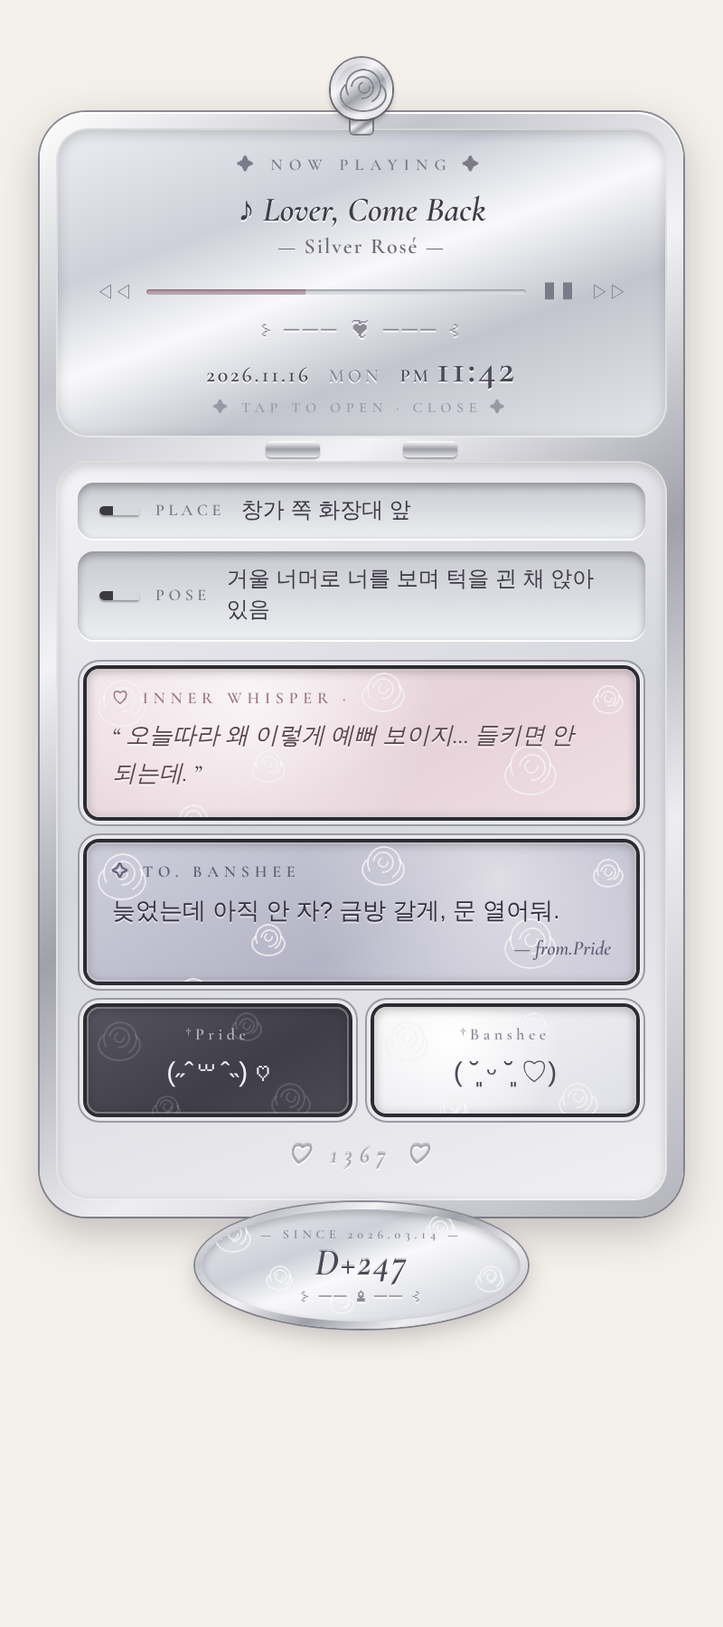
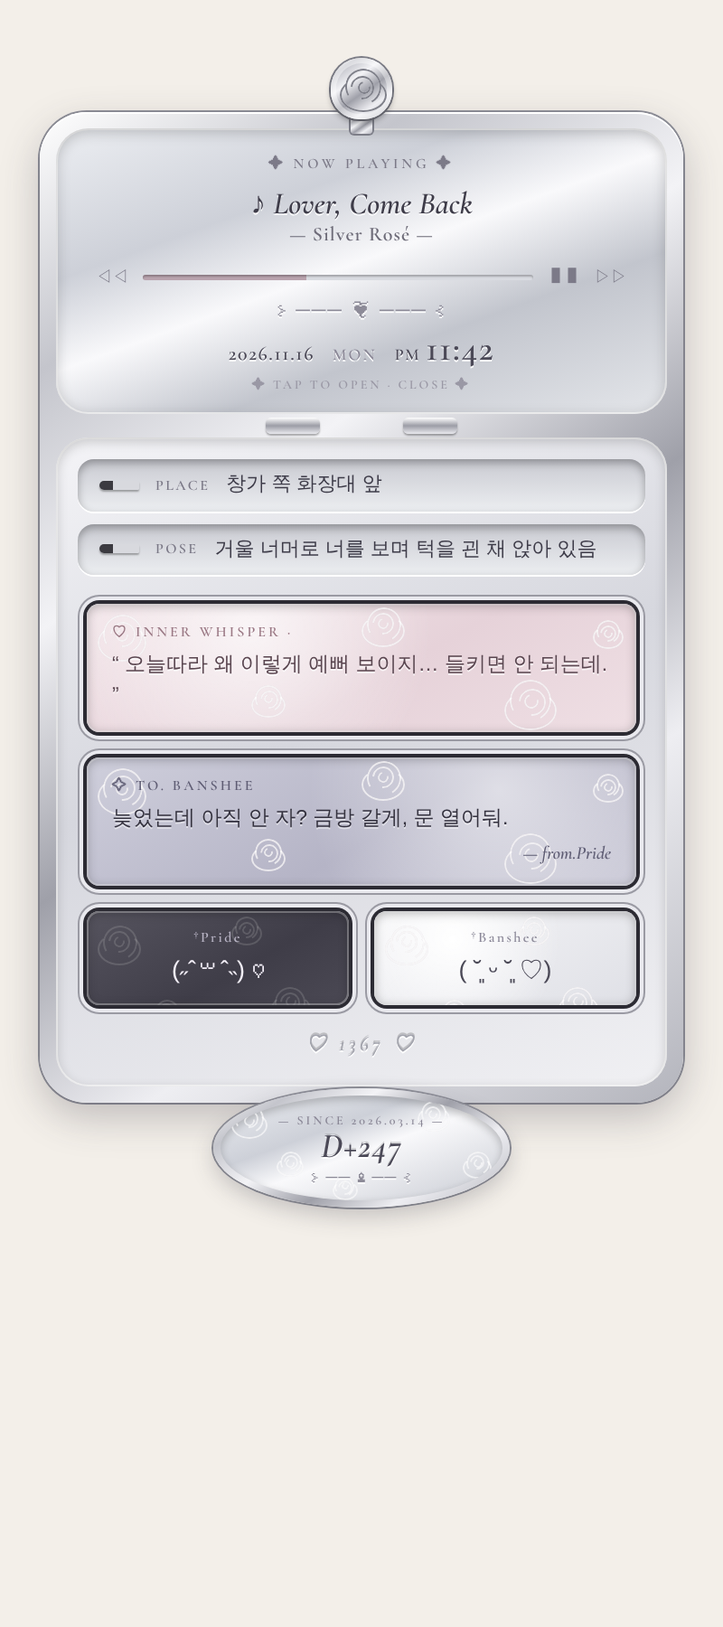
Tighten font size, letter/line spacing; sans-serif inner thoughts
Claude-Session: https://claude.ai/code/session_015A6CDdg71MrHfD1T3L7zrX

Changed region(s): [[0.0312, 0.0933, 0.9688, 0.84], [0.75, 0.1556, 0.8125, 0.1867], [0.3125, 0.0933, 0.3438, 0.1244]]

diff --git a/caveduck-widget/preview.html b/caveduck-widget/preview.html
@@ -19,15 +19,15 @@
       <summary style="cursor:pointer;list-style:none;outline:none;display:block">
         <!-- 거울 뚜껑 (탭하면 아래가 여닫힘) : 노래 a · 가수 b · 날짜 c · 요일 d · AM/PM e · 시각 f -->
         <div style="border-radius:18px;padding:16px 16px 12px;background:linear-gradient(160deg,#eceef2 0%,#cdd0d8 30%,#f9f9fb 48%,#c2c5cd 68%,#e4e6ea 100%);box-shadow:inset 0 2px 8px rgba(0,0,0,.22),inset 0 0 0 1px rgba(255,255,255,.8);text-align:center">
-          <div style="font:600 9px/1 'Cormorant Garamond','Playfair Display','Nanum Myeongjo','Noto Serif KR',serif;letter-spacing:.4em;color:#7c7a88">✦ NOW PLAYING ✦</div>
-          <div style="font:italic 600 19px/1.25 'Cormorant Garamond','Playfair Display','Nanum Myeongjo','Noto Serif KR',serif;color:#3e3c49;margin-top:8px;text-shadow:0 1px 0 rgba(255,255,255,.9)">♪ Lover, Come Back</div>
-          <div style="font:12px/1.4 'Cormorant Garamond','Playfair Display','Nanum Myeongjo','Noto Serif KR',serif;color:#6d6b78;letter-spacing:.08em">— Silver Rosé —</div>
-          <div style="display:flex;align-items:center;gap:8px;margin:10px 6px 0;font:10px 'Cormorant Garamond','Playfair Display','Nanum Myeongjo','Noto Serif KR',serif;color:#7c7a88"><span>◁◁</span>
+          <div style="font:600 8px/1 'Cormorant Garamond','Playfair Display','Nanum Myeongjo','Noto Serif KR',serif;letter-spacing:0.24em;color:#7c7a88">✦ NOW PLAYING ✦</div>
+          <div style="font:italic 600 17px/1.18 'Cormorant Garamond','Playfair Display','Nanum Myeongjo','Noto Serif KR',serif;color:#3e3c49;margin-top:8px;text-shadow:0 1px 0 rgba(255,255,255,.9)">♪ Lover, Come Back</div>
+          <div style="font:11px/1.28 'Cormorant Garamond','Playfair Display','Nanum Myeongjo','Noto Serif KR',serif;color:#6d6b78;letter-spacing:0.048em">— Silver Rosé —</div>
+          <div style="display:flex;align-items:center;gap:8px;margin:10px 6px 0;font:9px 'Cormorant Garamond','Playfair Display','Nanum Myeongjo','Noto Serif KR',serif;color:#7c7a88"><span>◁◁</span>
             <div style="flex:1;height:3px;border-radius:3px;background:linear-gradient(90deg,#b9a3ae 0%,#b9a3ae 42%,#d9dbe1 42%);box-shadow:inset 0 1px 1px rgba(0,0,0,.25)"></div><span>❚❚</span><span>▷▷</span>
           </div>
-          <div style="text-align:center;margin:7px 0 5px;font-size:12px;line-height:1;letter-spacing:.15em;color:#8d8b98;text-shadow:0 1px 0 #fff">⊱ ─── ❦ ─── ⊰</div>
-          <div style="display:flex;justify-content:center;align-items:baseline;gap:10px;color:#4b4957;text-shadow:0 1px 0 #fff"><span style="font:600 12px 'Cormorant Garamond','Playfair Display','Nanum Myeongjo','Noto Serif KR',serif;letter-spacing:.12em">2026.11.16</span><span style="font:600 10px 'Cormorant Garamond','Playfair Display','Nanum Myeongjo','Noto Serif KR',serif;letter-spacing:.2em;color:#8a8796">MON</span><span style="font:600 22px/1 'Cormorant Garamond','Playfair Display','Nanum Myeongjo','Noto Serif KR',serif;letter-spacing:.06em"><small style="font-size:10px;letter-spacing:.15em;margin-right:3px">PM</small>11:42</span></div>
-          <div style="text-align:center;font:600 8px 'Cormorant Garamond','Playfair Display','Nanum Myeongjo','Noto Serif KR',serif;letter-spacing:.35em;color:#9a98a5;margin-top:6px">✦ TAP TO OPEN · CLOSE ✦</div>
+          <div style="text-align:center;margin:7px 0 5px;font-size:11px;line-height:1;letter-spacing:0.09em;color:#8d8b98;text-shadow:0 1px 0 #fff">⊱ ─── ❦ ─── ⊰</div>
+          <div style="display:flex;justify-content:center;align-items:baseline;gap:10px;color:#4b4957;text-shadow:0 1px 0 #fff"><span style="font:600 11px 'Cormorant Garamond','Playfair Display','Nanum Myeongjo','Noto Serif KR',serif;letter-spacing:0.072em">2026.11.16</span><span style="font:600 9px 'Cormorant Garamond','Playfair Display','Nanum Myeongjo','Noto Serif KR',serif;letter-spacing:0.12em;color:#8a8796">MON</span><span style="font:600 20px/1 'Cormorant Garamond','Playfair Display','Nanum Myeongjo','Noto Serif KR',serif;letter-spacing:0.036em"><small style="font-size:9px;letter-spacing:0.09em;margin-right:3px">PM</small>11:42</span></div>
+          <div style="text-align:center;font:600 7px 'Cormorant Garamond','Playfair Display','Nanum Myeongjo','Noto Serif KR',serif;letter-spacing:0.21em;color:#9a98a5;margin-top:6px">✦ TAP TO OPEN · CLOSE ✦</div>
         </div>
       </summary>
       <!-- 경첩 -->
@@ -39,8 +39,8 @@
       <div style="border-radius:18px;padding:12px 12px 16px;background:linear-gradient(160deg,#f4f4f7,#d6d7de 45%,#f0f0f3);box-shadow:inset 0 2px 7px rgba(0,0,0,.2),inset 0 0 0 1px rgba(255,255,255,.8)">
         <div style="display:grid;gap:7px;margin-bottom:16px">
           <!-- 브러시 홈 : 장소 g / 자세 h -->
-          <div style="display:flex;align-items:center;gap:9px;padding:7px 12px;border-radius:9px;background:linear-gradient(180deg,#c9cad1,#eceef1);box-shadow:inset 0 2px 5px rgba(0,0,0,.3),0 1px 0 #fff"><span style="flex:none;width:22px;height:5px;border-radius:5px 2px 2px 5px;background:linear-gradient(90deg,#3b3a40 0 35%,#d8d9de 35% 100%);box-shadow:0 1px 1px rgba(0,0,0,.3)"></span><span style="flex:none;font:600 9px 'Cormorant Garamond','Playfair Display','Nanum Myeongjo','Noto Serif KR',serif;letter-spacing:.25em;color:#7a7886">PLACE</span><span style="font-size:12px;line-height:1.45;color:#3e3c49">창가 쪽 화장대 앞</span></div>
-          <div style="display:flex;align-items:center;gap:9px;padding:7px 12px;border-radius:9px;background:linear-gradient(180deg,#c9cad1,#eceef1);box-shadow:inset 0 2px 5px rgba(0,0,0,.3),0 1px 0 #fff"><span style="flex:none;width:22px;height:5px;border-radius:5px 2px 2px 5px;background:linear-gradient(90deg,#3b3a40 0 35%,#d8d9de 35% 100%);box-shadow:0 1px 1px rgba(0,0,0,.3)"></span><span style="flex:none;font:600 9px 'Cormorant Garamond','Playfair Display','Nanum Myeongjo','Noto Serif KR',serif;letter-spacing:.25em;color:#7a7886">POSE</span><span style="font-size:12px;line-height:1.45;color:#3e3c49">거울 너머로 너를 보며 턱을 괸 채 앉아 있음</span></div>
+          <div style="display:flex;align-items:center;gap:9px;padding:7px 12px;border-radius:9px;background:linear-gradient(180deg,#c9cad1,#eceef1);box-shadow:inset 0 2px 5px rgba(0,0,0,.3),0 1px 0 #fff"><span style="flex:none;width:22px;height:5px;border-radius:5px 2px 2px 5px;background:linear-gradient(90deg,#3b3a40 0 35%,#d8d9de 35% 100%);box-shadow:0 1px 1px rgba(0,0,0,.3)"></span><span style="flex:none;font:600 8px 'Cormorant Garamond','Playfair Display','Nanum Myeongjo','Noto Serif KR',serif;letter-spacing:0.15em;color:#7a7886">PLACE</span><span style="font-size:11px;line-height:1.31;color:#3e3c49">창가 쪽 화장대 앞</span></div>
+          <div style="display:flex;align-items:center;gap:9px;padding:7px 12px;border-radius:9px;background:linear-gradient(180deg,#c9cad1,#eceef1);box-shadow:inset 0 2px 5px rgba(0,0,0,.3),0 1px 0 #fff"><span style="flex:none;width:22px;height:5px;border-radius:5px 2px 2px 5px;background:linear-gradient(90deg,#3b3a40 0 35%,#d8d9de 35% 100%);box-shadow:0 1px 1px rgba(0,0,0,.3)"></span><span style="flex:none;font:600 8px 'Cormorant Garamond','Playfair Display','Nanum Myeongjo','Noto Serif KR',serif;letter-spacing:0.15em;color:#7a7886">POSE</span><span style="font-size:11px;line-height:1.31;color:#3e3c49">거울 너머로 너를 보며 턱을 괸 채 앉아 있음</span></div>
         </div>
         <div style="display:grid;gap:14px;padding:0 5px">
           <!-- 핑크 팬 : Pride의 속마음 i -->
@@ -90,8 +90,8 @@
               </div>
             </div>
             <div style="position:relative">
-              <div style="font:600 9px/1 'Cormorant Garamond','Playfair Display','Nanum Myeongjo','Noto Serif KR',serif;letter-spacing:.32em;text-transform:uppercase;color:#9a7884;margin-bottom:6px">♡ Inner Whisper ·</div>
-              <div style="margin-top:2px;font:italic 13px/1.65 'Cormorant Garamond','Playfair Display','Nanum Myeongjo','Noto Serif KR',serif;color:#5a4650;text-shadow:0 1px 0 rgba(255,255,255,.7)">“ 오늘따라 왜 이렇게 예뻐 보이지… 들키면 안 되는데. ”</div>
+              <div style="font:600 8px/1 'Cormorant Garamond','Playfair Display','Nanum Myeongjo','Noto Serif KR',serif;letter-spacing:0.192em;text-transform:uppercase;color:#9a7884;margin-bottom:6px">♡ Inner Whisper ·</div>
+              <div style="margin-top:2px;font:11.5px/1.45 'Pretendard','Apple SD Gothic Neo','Noto Sans KR',sans-serif;color:#5a4650;text-shadow:0 1px 0 rgba(255,255,255,.7)">“ 오늘따라 왜 이렇게 예뻐 보이지… 들키면 안 되는데. ”</div>
             </div>
           </div>
           <!-- 라벤더 팬 : Pride → Banshee 메시지 j -->
@@ -141,9 +141,9 @@
               </div>
             </div>
             <div style="position:relative">
-              <div style="font:600 9px/1 'Cormorant Garamond','Playfair Display','Nanum Myeongjo','Noto Serif KR',serif;letter-spacing:.32em;text-transform:uppercase;color:#5e5c73;margin-bottom:6px">✧ To. Banshee</div>
-              <div style="font-size:13px;line-height:1.65;color:#34323f;text-shadow:0 1px 0 rgba(255,255,255,.5)">늦었는데 아직 안 자? 금방 갈게, 문 열어둬.</div>
-              <div style="text-align:right;font:italic 11px 'Cormorant Garamond','Playfair Display','Nanum Myeongjo','Noto Serif KR',serif;color:#5e5c73;margin-top:4px">— from.Pride</div>
+              <div style="font:600 8px/1 'Cormorant Garamond','Playfair Display','Nanum Myeongjo','Noto Serif KR',serif;letter-spacing:0.192em;text-transform:uppercase;color:#5e5c73;margin-bottom:6px">✧ To. Banshee</div>
+              <div style="font-size:11.5px;line-height:1.45;color:#34323f;text-shadow:0 1px 0 rgba(255,255,255,.5)">늦었는데 아직 안 자? 금방 갈게, 문 열어둬.</div>
+              <div style="text-align:right;font:italic 10px 'Cormorant Garamond','Playfair Display','Nanum Myeongjo','Noto Serif KR',serif;color:#5e5c73;margin-top:4px">— from.Pride</div>
             </div>
           </div>
           <!-- 카오모지 : 차콜 팬 Pride k / 펄 팬 Banshee l -->
@@ -176,8 +176,8 @@
                 </div>
               </div>
               <div style="position:relative">
-                <div style="font:600 9px 'Cormorant Garamond','Playfair Display','Nanum Myeongjo','Noto Serif KR',serif;letter-spacing:.25em;color:#b9b5c6;text-align:center">†Pride</div>
-                <div style="font-size:15px;line-height:1.6;text-align:center;color:#f3eff8;margin-top:4px;white-space:nowrap;overflow:hidden;text-overflow:ellipsis">(˶ˆ꒳ˆ˵) ♡</div>
+                <div style="font:600 8px 'Cormorant Garamond','Playfair Display','Nanum Myeongjo','Noto Serif KR',serif;letter-spacing:0.15em;color:#b9b5c6;text-align:center">†Pride</div>
+                <div style="font-size:13.5px;line-height:1.42;text-align:center;color:#f3eff8;margin-top:4px;white-space:nowrap;overflow:hidden;text-overflow:ellipsis">(˶ˆ꒳ˆ˵) ♡</div>
               </div>
             </div>
             <div style="position:relative;border-radius:7px;padding:12px 14px;color:#4b4957;background:radial-gradient(circle at 30% 30%,#fff,transparent 55%),linear-gradient(150deg,#f6f6f8,#dfe0e6);box-shadow:0 0 0 2px #2c2b33,0 0 0 4px #e9e9ee,0 0 0 5px #9a9aa3,inset 0 1px 6px rgba(0,0,0,.28),inset 0 0 0 1px rgba(255,255,255,.35);;padding:10px 8px">
@@ -208,14 +208,14 @@
                 </div>
               </div>
               <div style="position:relative">
-                <div style="font:600 9px 'Cormorant Garamond','Playfair Display','Nanum Myeongjo','Noto Serif KR',serif;letter-spacing:.25em;color:#8b8898;text-align:center">†Banshee</div>
-                <div style="font-size:15px;line-height:1.6;text-align:center;color:#4b4957;margin-top:4px;white-space:nowrap;overflow:hidden;text-overflow:ellipsis">( ˘͈ ᵕ ˘͈ ♡)</div>
+                <div style="font:600 8px 'Cormorant Garamond','Playfair Display','Nanum Myeongjo','Noto Serif KR',serif;letter-spacing:0.15em;color:#8b8898;text-align:center">†Banshee</div>
+                <div style="font-size:13.5px;line-height:1.42;text-align:center;color:#4b4957;margin-top:4px;white-space:nowrap;overflow:hidden;text-overflow:ellipsis">( ˘͈ ᵕ ˘͈ ♡)</div>
               </div>
             </div>
           </div>
         </div>
         <!-- 바닥 각인 글씨 -->
-        <div style="text-align:center;margin-top:14px;font:italic 600 13px 'Cormorant Garamond','Playfair Display','Nanum Myeongjo','Noto Serif KR',serif;letter-spacing:.3em;color:#a3a4ad;text-shadow:0 1px 0 #fff,0 -1px 0 rgba(0,0,0,.18)">♡ 1367 ♡</div>
+        <div style="text-align:center;margin-top:14px;font:italic 600 11.5px 'Cormorant Garamond','Playfair Display','Nanum Myeongjo','Noto Serif KR',serif;letter-spacing:0.18em;color:#a3a4ad;text-shadow:0 1px 0 #fff,0 -1px 0 rgba(0,0,0,.18)">♡ 1367 ♡</div>
       </div>
     </details>
   </div>
@@ -256,9 +256,9 @@
           </div>
         </div>
         <div style="position:relative">
-          <div style="font:600 7px 'Cormorant Garamond','Playfair Display','Nanum Myeongjo','Noto Serif KR',serif;letter-spacing:.35em;color:#8a8796">— SINCE 2026.03.14 —</div>
-          <div style="font:italic 600 21px/1.15 'Cormorant Garamond','Playfair Display','Nanum Myeongjo','Noto Serif KR',serif;color:#4b4957;letter-spacing:.05em;text-shadow:0 1px 0 #fff,0 -1px 0 rgba(0,0,0,.15)">D+247</div>
-          <div style="text-align:center;margin-top:2px;font-size:10px;line-height:1;letter-spacing:.12em;color:#8d8b98;text-shadow:0 1px 0 #fff">⊱ ── ♝ ── ⊰</div>
+          <div style="font:600 7px 'Cormorant Garamond','Playfair Display','Nanum Myeongjo','Noto Serif KR',serif;letter-spacing:0.21em;color:#8a8796">— SINCE 2026.03.14 —</div>
+          <div style="font:italic 600 19px/1.1 'Cormorant Garamond','Playfair Display','Nanum Myeongjo','Noto Serif KR',serif;color:#4b4957;letter-spacing:0.03em;text-shadow:0 1px 0 #fff,0 -1px 0 rgba(0,0,0,.15)">D+247</div>
+          <div style="text-align:center;margin-top:2px;font-size:9px;line-height:1;letter-spacing:0.072em;color:#8d8b98;text-shadow:0 1px 0 #fff">⊱ ── ♝ ── ⊰</div>
         </div>
       </div>
     </div>

diff --git a/caveduck-widget/rose-compact-widget.html b/caveduck-widget/rose-compact-widget.html
@@ -19,15 +19,15 @@
       <summary style="cursor:pointer;list-style:none;outline:none;display:block">
         <!-- 거울 뚜껑 (탭하면 아래가 여닫힘) : 노래 a · 가수 b · 날짜 c · 요일 d · AM/PM e · 시각 f -->
         <div style="border-radius:18px;padding:16px 16px 12px;background:linear-gradient(160deg,#eceef2 0%,#cdd0d8 30%,#f9f9fb 48%,#c2c5cd 68%,#e4e6ea 100%);box-shadow:inset 0 2px 8px rgba(0,0,0,.22),inset 0 0 0 1px rgba(255,255,255,.8);text-align:center">
-          <div style="font:600 9px/1 'Cormorant Garamond','Playfair Display','Nanum Myeongjo','Noto Serif KR',serif;letter-spacing:.4em;color:#7c7a88">✦ NOW PLAYING ✦</div>
-          <div style="font:italic 600 19px/1.25 'Cormorant Garamond','Playfair Display','Nanum Myeongjo','Noto Serif KR',serif;color:#3e3c49;margin-top:8px;text-shadow:0 1px 0 rgba(255,255,255,.9)">♪ {{a}}</div>
-          <div style="font:12px/1.4 'Cormorant Garamond','Playfair Display','Nanum Myeongjo','Noto Serif KR',serif;color:#6d6b78;letter-spacing:.08em">— {{b}} —</div>
-          <div style="display:flex;align-items:center;gap:8px;margin:10px 6px 0;font:10px 'Cormorant Garamond','Playfair Display','Nanum Myeongjo','Noto Serif KR',serif;color:#7c7a88"><span>◁◁</span>
+          <div style="font:600 8px/1 'Cormorant Garamond','Playfair Display','Nanum Myeongjo','Noto Serif KR',serif;letter-spacing:0.24em;color:#7c7a88">✦ NOW PLAYING ✦</div>
+          <div style="font:italic 600 17px/1.18 'Cormorant Garamond','Playfair Display','Nanum Myeongjo','Noto Serif KR',serif;color:#3e3c49;margin-top:8px;text-shadow:0 1px 0 rgba(255,255,255,.9)">♪ {{a}}</div>
+          <div style="font:11px/1.28 'Cormorant Garamond','Playfair Display','Nanum Myeongjo','Noto Serif KR',serif;color:#6d6b78;letter-spacing:0.048em">— {{b}} —</div>
+          <div style="display:flex;align-items:center;gap:8px;margin:10px 6px 0;font:9px 'Cormorant Garamond','Playfair Display','Nanum Myeongjo','Noto Serif KR',serif;color:#7c7a88"><span>◁◁</span>
             <div style="flex:1;height:3px;border-radius:3px;background:linear-gradient(90deg,#b9a3ae 0%,#b9a3ae 42%,#d9dbe1 42%);box-shadow:inset 0 1px 1px rgba(0,0,0,.25)"></div><span>❚❚</span><span>▷▷</span>
           </div>
-          <div style="text-align:center;margin:7px 0 5px;font-size:12px;line-height:1;letter-spacing:.15em;color:#8d8b98;text-shadow:0 1px 0 #fff">⊱ ─── ❦ ─── ⊰</div>
-          <div style="display:flex;justify-content:center;align-items:baseline;gap:10px;color:#4b4957;text-shadow:0 1px 0 #fff"><span style="font:600 12px 'Cormorant Garamond','Playfair Display','Nanum Myeongjo','Noto Serif KR',serif;letter-spacing:.12em">{{c}}</span><span style="font:600 10px 'Cormorant Garamond','Playfair Display','Nanum Myeongjo','Noto Serif KR',serif;letter-spacing:.2em;color:#8a8796">{{d}}</span><span style="font:600 22px/1 'Cormorant Garamond','Playfair Display','Nanum Myeongjo','Noto Serif KR',serif;letter-spacing:.06em"><small style="font-size:10px;letter-spacing:.15em;margin-right:3px">{{e}}</small>{{f}}</span></div>
-          <div style="text-align:center;font:600 8px 'Cormorant Garamond','Playfair Display','Nanum Myeongjo','Noto Serif KR',serif;letter-spacing:.35em;color:#9a98a5;margin-top:6px">✦ TAP TO OPEN · CLOSE ✦</div>
+          <div style="text-align:center;margin:7px 0 5px;font-size:11px;line-height:1;letter-spacing:0.09em;color:#8d8b98;text-shadow:0 1px 0 #fff">⊱ ─── ❦ ─── ⊰</div>
+          <div style="display:flex;justify-content:center;align-items:baseline;gap:10px;color:#4b4957;text-shadow:0 1px 0 #fff"><span style="font:600 11px 'Cormorant Garamond','Playfair Display','Nanum Myeongjo','Noto Serif KR',serif;letter-spacing:0.072em">{{c}}</span><span style="font:600 9px 'Cormorant Garamond','Playfair Display','Nanum Myeongjo','Noto Serif KR',serif;letter-spacing:0.12em;color:#8a8796">{{d}}</span><span style="font:600 20px/1 'Cormorant Garamond','Playfair Display','Nanum Myeongjo','Noto Serif KR',serif;letter-spacing:0.036em"><small style="font-size:9px;letter-spacing:0.09em;margin-right:3px">{{e}}</small>{{f}}</span></div>
+          <div style="text-align:center;font:600 7px 'Cormorant Garamond','Playfair Display','Nanum Myeongjo','Noto Serif KR',serif;letter-spacing:0.21em;color:#9a98a5;margin-top:6px">✦ TAP TO OPEN · CLOSE ✦</div>
         </div>
       </summary>
       <!-- 경첩 -->
@@ -39,8 +39,8 @@
       <div style="border-radius:18px;padding:12px 12px 16px;background:linear-gradient(160deg,#f4f4f7,#d6d7de 45%,#f0f0f3);box-shadow:inset 0 2px 7px rgba(0,0,0,.2),inset 0 0 0 1px rgba(255,255,255,.8)">
         <div style="display:grid;gap:7px;margin-bottom:16px">
           <!-- 브러시 홈 : 장소 g / 자세 h -->
-          <div style="display:flex;align-items:center;gap:9px;padding:7px 12px;border-radius:9px;background:linear-gradient(180deg,#c9cad1,#eceef1);box-shadow:inset 0 2px 5px rgba(0,0,0,.3),0 1px 0 #fff"><span style="flex:none;width:22px;height:5px;border-radius:5px 2px 2px 5px;background:linear-gradient(90deg,#3b3a40 0 35%,#d8d9de 35% 100%);box-shadow:0 1px 1px rgba(0,0,0,.3)"></span><span style="flex:none;font:600 9px 'Cormorant Garamond','Playfair Display','Nanum Myeongjo','Noto Serif KR',serif;letter-spacing:.25em;color:#7a7886">PLACE</span><span style="font-size:12px;line-height:1.45;color:#3e3c49">{{g}}</span></div>
-          <div style="display:flex;align-items:center;gap:9px;padding:7px 12px;border-radius:9px;background:linear-gradient(180deg,#c9cad1,#eceef1);box-shadow:inset 0 2px 5px rgba(0,0,0,.3),0 1px 0 #fff"><span style="flex:none;width:22px;height:5px;border-radius:5px 2px 2px 5px;background:linear-gradient(90deg,#3b3a40 0 35%,#d8d9de 35% 100%);box-shadow:0 1px 1px rgba(0,0,0,.3)"></span><span style="flex:none;font:600 9px 'Cormorant Garamond','Playfair Display','Nanum Myeongjo','Noto Serif KR',serif;letter-spacing:.25em;color:#7a7886">POSE</span><span style="font-size:12px;line-height:1.45;color:#3e3c49">{{h}}</span></div>
+          <div style="display:flex;align-items:center;gap:9px;padding:7px 12px;border-radius:9px;background:linear-gradient(180deg,#c9cad1,#eceef1);box-shadow:inset 0 2px 5px rgba(0,0,0,.3),0 1px 0 #fff"><span style="flex:none;width:22px;height:5px;border-radius:5px 2px 2px 5px;background:linear-gradient(90deg,#3b3a40 0 35%,#d8d9de 35% 100%);box-shadow:0 1px 1px rgba(0,0,0,.3)"></span><span style="flex:none;font:600 8px 'Cormorant Garamond','Playfair Display','Nanum Myeongjo','Noto Serif KR',serif;letter-spacing:0.15em;color:#7a7886">PLACE</span><span style="font-size:11px;line-height:1.31;color:#3e3c49">{{g}}</span></div>
+          <div style="display:flex;align-items:center;gap:9px;padding:7px 12px;border-radius:9px;background:linear-gradient(180deg,#c9cad1,#eceef1);box-shadow:inset 0 2px 5px rgba(0,0,0,.3),0 1px 0 #fff"><span style="flex:none;width:22px;height:5px;border-radius:5px 2px 2px 5px;background:linear-gradient(90deg,#3b3a40 0 35%,#d8d9de 35% 100%);box-shadow:0 1px 1px rgba(0,0,0,.3)"></span><span style="flex:none;font:600 8px 'Cormorant Garamond','Playfair Display','Nanum Myeongjo','Noto Serif KR',serif;letter-spacing:0.15em;color:#7a7886">POSE</span><span style="font-size:11px;line-height:1.31;color:#3e3c49">{{h}}</span></div>
         </div>
         <div style="display:grid;gap:14px;padding:0 5px">
           <!-- 핑크 팬 : Pride의 속마음 i -->
@@ -90,8 +90,8 @@
               </div>
             </div>
             <div style="position:relative">
-              <div style="font:600 9px/1 'Cormorant Garamond','Playfair Display','Nanum Myeongjo','Noto Serif KR',serif;letter-spacing:.32em;text-transform:uppercase;color:#9a7884;margin-bottom:6px">♡ Inner Whisper ·</div>
-              <div style="margin-top:2px;font:italic 13px/1.65 'Cormorant Garamond','Playfair Display','Nanum Myeongjo','Noto Serif KR',serif;color:#5a4650;text-shadow:0 1px 0 rgba(255,255,255,.7)">“ {{i}} ”</div>
+              <div style="font:600 8px/1 'Cormorant Garamond','Playfair Display','Nanum Myeongjo','Noto Serif KR',serif;letter-spacing:0.192em;text-transform:uppercase;color:#9a7884;margin-bottom:6px">♡ Inner Whisper ·</div>
+              <div style="margin-top:2px;font:11.5px/1.45 'Pretendard','Apple SD Gothic Neo','Noto Sans KR',sans-serif;color:#5a4650;text-shadow:0 1px 0 rgba(255,255,255,.7)">“ {{i}} ”</div>
             </div>
           </div>
           <!-- 라벤더 팬 : Pride → Banshee 메시지 j -->
@@ -141,9 +141,9 @@
               </div>
             </div>
             <div style="position:relative">
-              <div style="font:600 9px/1 'Cormorant Garamond','Playfair Display','Nanum Myeongjo','Noto Serif KR',serif;letter-spacing:.32em;text-transform:uppercase;color:#5e5c73;margin-bottom:6px">✧ To. Banshee</div>
-              <div style="font-size:13px;line-height:1.65;color:#34323f;text-shadow:0 1px 0 rgba(255,255,255,.5)">{{j}}</div>
-              <div style="text-align:right;font:italic 11px 'Cormorant Garamond','Playfair Display','Nanum Myeongjo','Noto Serif KR',serif;color:#5e5c73;margin-top:4px">— from.Pride</div>
+              <div style="font:600 8px/1 'Cormorant Garamond','Playfair Display','Nanum Myeongjo','Noto Serif KR',serif;letter-spacing:0.192em;text-transform:uppercase;color:#5e5c73;margin-bottom:6px">✧ To. Banshee</div>
+              <div style="font-size:11.5px;line-height:1.45;color:#34323f;text-shadow:0 1px 0 rgba(255,255,255,.5)">{{j}}</div>
+              <div style="text-align:right;font:italic 10px 'Cormorant Garamond','Playfair Display','Nanum Myeongjo','Noto Serif KR',serif;color:#5e5c73;margin-top:4px">— from.Pride</div>
             </div>
           </div>
           <!-- 카오모지 : 차콜 팬 Pride k / 펄 팬 Banshee l -->
@@ -176,8 +176,8 @@
                 </div>
               </div>
               <div style="position:relative">
-                <div style="font:600 9px 'Cormorant Garamond','Playfair Display','Nanum Myeongjo','Noto Serif KR',serif;letter-spacing:.25em;color:#b9b5c6;text-align:center">†Pride</div>
-                <div style="font-size:15px;line-height:1.6;text-align:center;color:#f3eff8;margin-top:4px;white-space:nowrap;overflow:hidden;text-overflow:ellipsis">{{k}}</div>
+                <div style="font:600 8px 'Cormorant Garamond','Playfair Display','Nanum Myeongjo','Noto Serif KR',serif;letter-spacing:0.15em;color:#b9b5c6;text-align:center">†Pride</div>
+                <div style="font-size:13.5px;line-height:1.42;text-align:center;color:#f3eff8;margin-top:4px;white-space:nowrap;overflow:hidden;text-overflow:ellipsis">{{k}}</div>
               </div>
             </div>
             <div style="position:relative;border-radius:7px;padding:12px 14px;color:#4b4957;background:radial-gradient(circle at 30% 30%,#fff,transparent 55%),linear-gradient(150deg,#f6f6f8,#dfe0e6);box-shadow:0 0 0 2px #2c2b33,0 0 0 4px #e9e9ee,0 0 0 5px #9a9aa3,inset 0 1px 6px rgba(0,0,0,.28),inset 0 0 0 1px rgba(255,255,255,.35);;padding:10px 8px">
@@ -208,14 +208,14 @@
                 </div>
               </div>
               <div style="position:relative">
-                <div style="font:600 9px 'Cormorant Garamond','Playfair Display','Nanum Myeongjo','Noto Serif KR',serif;letter-spacing:.25em;color:#8b8898;text-align:center">†Banshee</div>
-                <div style="font-size:15px;line-height:1.6;text-align:center;color:#4b4957;margin-top:4px;white-space:nowrap;overflow:hidden;text-overflow:ellipsis">{{l}}</div>
+                <div style="font:600 8px 'Cormorant Garamond','Playfair Display','Nanum Myeongjo','Noto Serif KR',serif;letter-spacing:0.15em;color:#8b8898;text-align:center">†Banshee</div>
+                <div style="font-size:13.5px;line-height:1.42;text-align:center;color:#4b4957;margin-top:4px;white-space:nowrap;overflow:hidden;text-overflow:ellipsis">{{l}}</div>
               </div>
             </div>
           </div>
         </div>
         <!-- 바닥 각인 글씨 -->
-        <div style="text-align:center;margin-top:14px;font:italic 600 13px 'Cormorant Garamond','Playfair Display','Nanum Myeongjo','Noto Serif KR',serif;letter-spacing:.3em;color:#a3a4ad;text-shadow:0 1px 0 #fff,0 -1px 0 rgba(0,0,0,.18)">♡ 1367 ♡</div>
+        <div style="text-align:center;margin-top:14px;font:italic 600 11.5px 'Cormorant Garamond','Playfair Display','Nanum Myeongjo','Noto Serif KR',serif;letter-spacing:0.18em;color:#a3a4ad;text-shadow:0 1px 0 #fff,0 -1px 0 rgba(0,0,0,.18)">♡ 1367 ♡</div>
       </div>
     </details>
   </div>
@@ -256,9 +256,9 @@
           </div>
         </div>
         <div style="position:relative">
-          <div style="font:600 7px 'Cormorant Garamond','Playfair Display','Nanum Myeongjo','Noto Serif KR',serif;letter-spacing:.35em;color:#8a8796">— SINCE {{m}} —</div>
-          <div style="font:italic 600 21px/1.15 'Cormorant Garamond','Playfair Display','Nanum Myeongjo','Noto Serif KR',serif;color:#4b4957;letter-spacing:.05em;text-shadow:0 1px 0 #fff,0 -1px 0 rgba(0,0,0,.15)">{{n}}</div>
-          <div style="text-align:center;margin-top:2px;font-size:10px;line-height:1;letter-spacing:.12em;color:#8d8b98;text-shadow:0 1px 0 #fff">⊱ ── ♝ ── ⊰</div>
+          <div style="font:600 7px 'Cormorant Garamond','Playfair Display','Nanum Myeongjo','Noto Serif KR',serif;letter-spacing:0.21em;color:#8a8796">— SINCE {{m}} —</div>
+          <div style="font:italic 600 19px/1.1 'Cormorant Garamond','Playfair Display','Nanum Myeongjo','Noto Serif KR',serif;color:#4b4957;letter-spacing:0.03em;text-shadow:0 1px 0 #fff,0 -1px 0 rgba(0,0,0,.15)">{{n}}</div>
+          <div style="text-align:center;margin-top:2px;font-size:9px;line-height:1;letter-spacing:0.072em;color:#8d8b98;text-shadow:0 1px 0 #fff">⊱ ── ♝ ── ⊰</div>
         </div>
       </div>
     </div>
